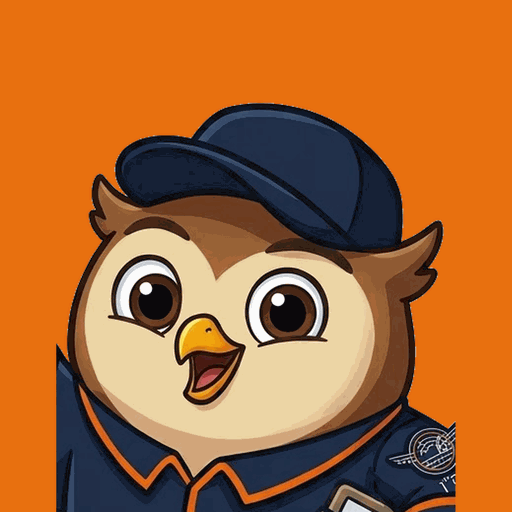
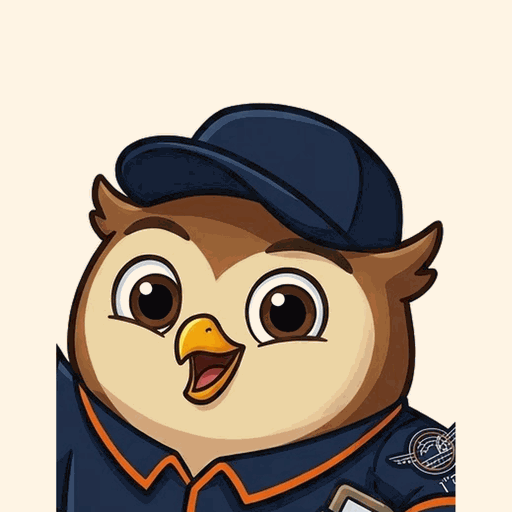
אייקון שמנת עם מסגרת כתומה; הינשוף בכניסה לא מתוח
Claude-Session: https://claude.ai/code/session_01HthJphD4ghJRrsSMZEXn4D

diff --git a/web/src/lib/changelog.ts b/web/src/lib/changelog.ts
@@ -16,7 +16,7 @@ export const CHANGELOG: Release[] = [
     items: [
       "המערכת נקראת עכשיו תורנצ׳יק – השם והינשוף בסרגל העליון, בכותרת הלשונית ובשם האפליקציה בטלפון",
       "מסך הכניסה: תורנצ׳יק מנופף לשלום, וסמל יחידת מה״ן בתחתית",
-      "אייקון חדש לאפליקציה, ל-favicon ולהתראות לטלפון (כדי לראות אותו במסך הבית – להסיר ולהוסיף שוב)",
+      "אייקון חדש (ראש הינשוף על רקע שמנת עם מסגרת כתומה) לאפליקציה, ל-favicon ולהתראות לטלפון (כדי לראות אותו במסך הבית – להסיר ולהוסיף שוב)",
     ],
   },
   {

diff --git a/web/src/components/Mascot.tsx b/web/src/components/Mascot.tsx
@@ -20,7 +20,7 @@ export function Mascot({ pose, height = 140, sx }: { pose: MascotPose; height?: 
       alt={ALT[pose]}
       loading="lazy"
       decoding="async"
-      sx={[{ height, width: "auto", display: "block", userSelect: "none", pointerEvents: "none" }, ...(Array.isArray(sx) ? sx : [sx])]}
+      sx={[{ height, width: "auto", maxWidth: "100%", objectFit: "contain", alignSelf: "center", flexShrink: 0, display: "block", userSelect: "none", pointerEvents: "none" }, ...(Array.isArray(sx) ? sx : [sx])]}
     />
   );
 }
